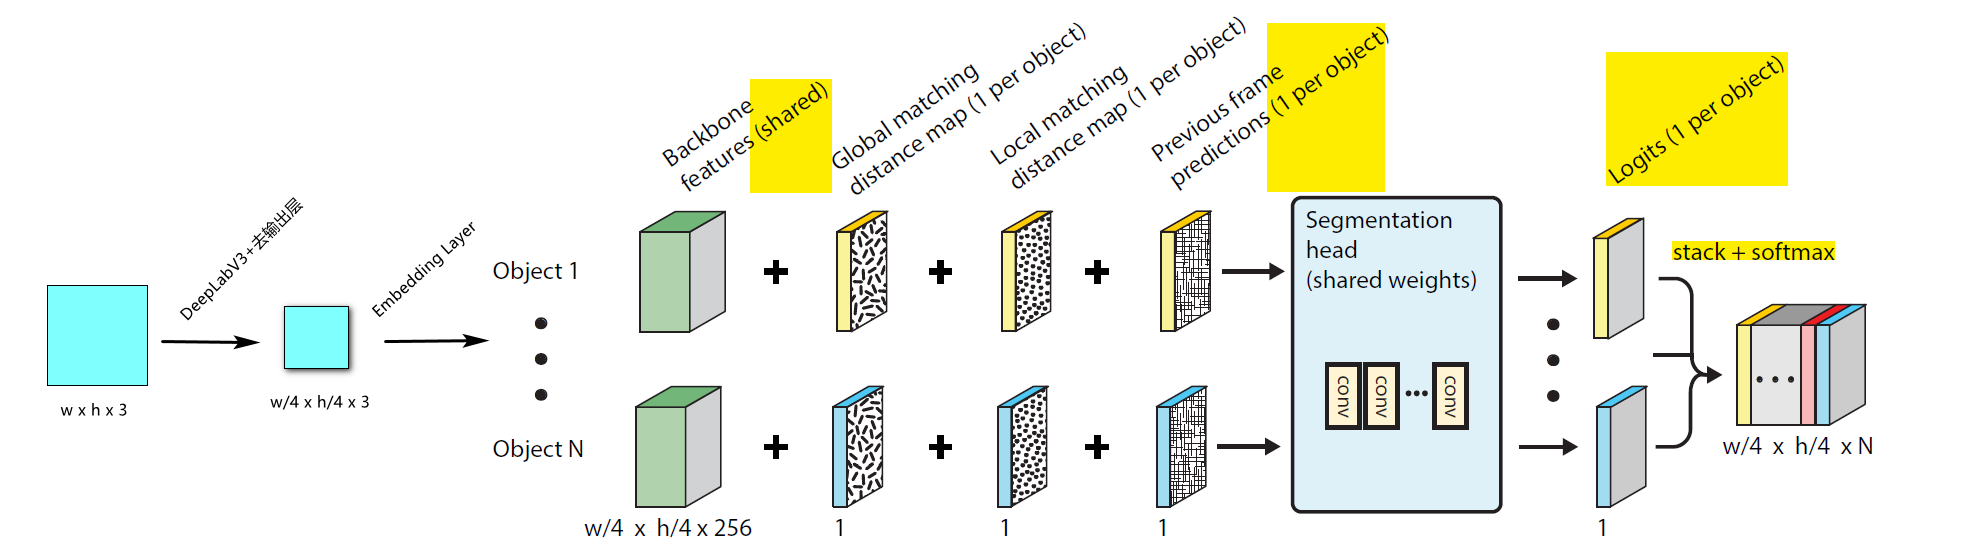
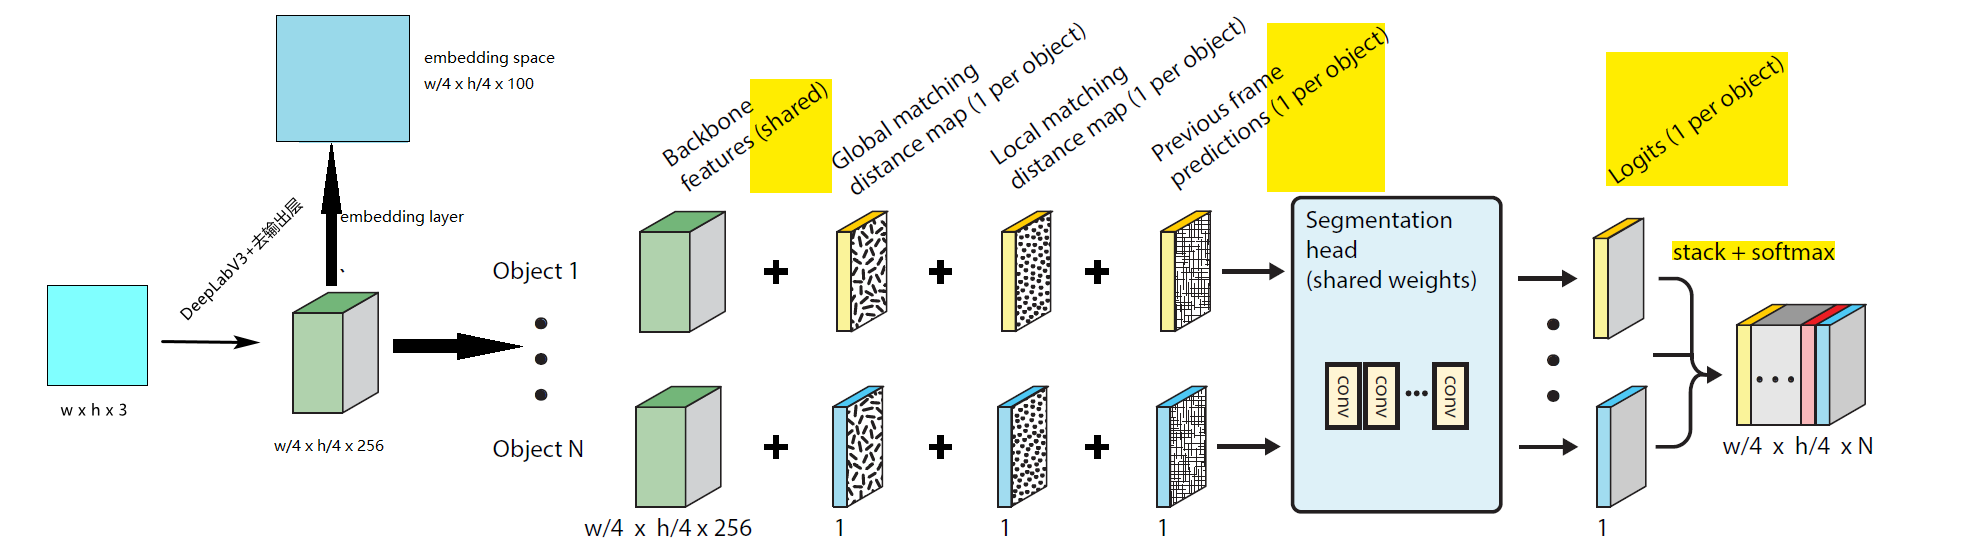
update

Changed region(s): [[0.1234, 0.0, 0.2777, 0.7658], [0.1234, 0.7964, 0.1851, 0.827]]

diff --git a/_posts/.ipynb_checkpoints/2019-9-10-Paper-Reading-Semantic-Instance-Segmentation-via-Deep-Metric-Learning-checkpoint.md b/_posts/.ipynb_checkpoints/2019-9-10-Paper-Reading-Semantic-Instance-Segmentation-via-Deep-Metric-Learning-checkpoint.md
@@ -1,0 +1,82 @@
+---
+title: 【论文阅读笔记】基于深度度量学习的语义实例分割
+tags: [CV, Semantic Instance Segmentation, Deep Metric Learning]
+categories: [CV, Semantic Instance Segmentation]
+---
+[基于深度度量学习的语义实例分割（Semantic Instance Segmentation via Deep Metric Learning）](https://arxiv.org/abs/1703.10277)
+
+论文提出一种语义实例分割的新方法，简单概括为先计算两个像素点属于同一个对象的可能性，然后将相似的像素分组到一起。相似度的度量方式取决于深度完全卷积的嵌入模型，而分组的方法是取决于用深度完全卷积的评分模型选取与一组“种子点”（`seed point`）足够相似的所有点。[论文下载地址](https://arxiv.org/pdf/1703.10277.pdf)
+
+<!--more-->
+
+## 论文前言（Introduction） ##
+论文一开始介绍了语义实例分割
+
+- [与物体检测（`Object Detection`）的区别](#语义实例分割与物体检测的区别)
+- [与语义分割（`Semantic Segmentation`）的区别](#语义实例分割与语义分割的区别)
+- [在领域中的实际应用（`Practical Applications in Domains`）](#语义实例分割在领域中的实际应用)
+- [一种常用的处理方法（`A Common Approach`）](#语义实例分割常用的处理方法)
+- [一个近期的新的处理方法（`“Box-Free” Methods`）](#语义实例分割近期的新的处理方法)
+- [论文中提出的新方法](#论文中提出的语义实例分割新方法)
+- [模型图](#模型图)
+
+### 语义实例分割与物体检测的区别 ###
+相对于物体检测，结果不是一个边界框，而是实例对象的形状，
+
+### 语义实例分割与语义分割的区别 ###
+相对于语义分割，语义实例分割不仅仅只是将每一个像素分类到一个标签，而且区分同一类别中的单个实体（即区分person-1、person-2……），因而标签空间的大小没有限制（即标签可能包含两个对象，也可能是三个，甚至是无限多个）。
+
+### 语义实例分割在领域中的实际应用 ###
+自动驾驶汽车、机器人技术、图片编辑等等。
+
+### 语义实例分割常用的处理方法 ###
+首先，用某种机制去预测对象的边界，例如用一个类级别（`class-level`）的对象检测器或者使用一个类不可知边界建议方法（`class agnostic box proposal method`）比如边界盒（`EdgeBoxes`）等等。
+
+然后，对每一个建议的边界（`proposed box`）中进行分类和分割。
+
+这种方法的缺点在于如果在建议的边界中不止存在一个实体，则这种方法可能会失败。
+
+论文中还说，直观的来看，首先检测代表每个物体的遮罩（`mark`），然后再根据需要从中派生一个边界框感觉更“自然”（`“natural”`）。
+
+需要**注意**的是边界框对于一些具体类别（例如车、行人）的物体形状是很好的近似，但是在其他一些类别中表现就不那么好了，比如椅子之类的“金属线”物体（` “wirey” objects`）、铰接在一起的人（`articulated people`）以及其他非轴对称的物体(`non-axis-aligned objects`)。
+
+### 语义实例分割近期的新的处理方法 ###
+
+自由边界的方法（`“Box-Free” Methods`）：这种方法试图直接预测每个物体的遮罩，最常用的方法是修改Faster RCNN框架，以便在每一个点，预测一个中心性分数（`“centeredness” score`,当前点作为一个实体对象的中心的可能性），二元对象遮罩（`binary object mask`）和类标签（`class label`），而不是通常的对象分数（`“objectness” score`），边界框和类标签，但是，这种方法要求整个对象实例都符合进行预测的单元的接收域（`receptive field`）,对于细长结构（`elongated
+structures`）来说，这是很困难的，它们可能跨越图片中的很多像素，另外，对于一些对象种类，中心的概念没有一个很好的定义。
+
+### 论文中提出的语义实例分割新方法 ###
+**核心思想**是计算两个像素点属于同一个实例对象的可能性，随后用这些可能性来将相似的点分组。
+相似于大多数无监督图像分割方法（`unsupervised image segmentation`），都将像素点分组到一起形成部分（`segments`）或者“超级像素”（`“super-pixels”`），然而，与无监督案例不同的是，论文中的方法对“正确的”部分有明确定义的概念，叫做整个对象的空间范围，这避免了像是否将一个对象的部分做一个独立的部分（例如，人的上衣和裤子）的这种歧义，而这是无监督方法的评估的困扰。
+
+论文中的方法建议使用深度嵌入模型来学习相似度度量，这种方法与其他方法也有相似之处，比如FaceNet，它学习两个边界框属于同一个人的可能性，除了学习预测像素的相似性，同时考虑到它们本地的上下文。
+
+文中提到文中的方法与无监督图像分割的另一个不同是没有使用基于谱或者图的划分方法，原因是，计算所有像素点成对的相似度太昂贵的，相反，使用了计算与一组K个种子点（`“seed points”`）的距离在嵌入空间中，这可以使用张量成发来实现。
+
+为了找到这些种子点（`seed points`）,学习一个单独的模型来预测一个像素点作为一个好的种子点的可能性，把这个叫做每个像素点的“种子度”分数（`“seediness” score `），这类似于之前提到的方法中的“中心度”分数（`“centeredness” score`），只是不需要确定对象的中心，而是使用种子度分数的方法，度量一个像素相对于其他像素点“典型性”（`“typicality”`）在这个实体中。论文中**表明**，在实践中，只需要取前100个种子，就可以很好地覆盖一张图像中几乎所有的对象。
+
+前言部分最后说了一下新方法的准确性，总结来说就是尽管在这个特定的基准（`Pascal VOC 2012 instance segmentation
+benchmark`）下不是最先进的，但是依然有竞争力。
+
+### 模型图 ###
+![图片一，基于深度度量学习的语义实例分割](/assets/images/20190910/image1-Semantic-Instance-Segmentation-via-Deep-Metric-Learning.png)
+
+图片中展示了上面所说的过程：给定一张图片，先通过卷积层，通过卷积层之后，通过一个网络预测得到嵌入向量（`embedding vector`），同时通过另一个网络预测得到遮罩分类和种子度分数（`Mask classification and seediness scores`），随后通过这个两个结果又可以等到像素种子样本（`Pixel Seed
+Sampling`）,最后通过分组，得到最终的实体分割的结果（`Output instance segments`）,包括了遮罩、分类的分数。
+
+## 相关工作 ##
+论文的第二部分`Related work`，主要大概概述了一些语义实体分割的方法以及方法的优劣，最后到论文要提出的新方法，这里跳过，主要看第三部分，方法的详细说明。
+
+## 论文中提出的方法 ##
+
+### 概述 ###
+
+这里用自己的话总结一下，论文中提出的方法，首先
+1. 图片（维度[h,w,3]）通过一个特征提取器（基于DeepLab V2模型，修改掉最后分类的层（layer），让输出的维度为[h/8,w/8,2048]），
+2. 第一步的结果再通过嵌入模型（`embedding model`）（输出维度为[h,w,d]，这里的d为每一个像素点嵌入向量的维度，论文中设置d=64）。
+3. 这一步与第2步同时进行，第一步的结果再通过分类模型，输出为[h,w,C+1]，C为分类的数目，对应每一个点分类的分数。
+4. 最后结合第2步，第3步，输出实体分割结果，取两者的重叠率，当重叠率最高的类别超过一个阈值（{0.25，0.5，0.75，0.9}）的时候，则该分类有效，作为遮罩的类别。
+
+到这里基本实现了模型的正向传播，训练方法与预处理在这里先不详细总结了，对应上面四个步骤进行训练，第一步中，使用COCO预训练（DeepLab V2模型修改最后一层），第二步第三步中，使用类似交叉熵损失函数来训练，在选择种子点时，使用均方误差作为损失函数来训练，选择最合适的种子点。
+
+以上是部分论文的直译，以及一些个人的理解，可能有些不准确的地方，之后有机会使用到论文中的方法时，再深入吧，这里算是了解一种新方法。

diff --git a/_posts/.ipynb_checkpoints/2019-9-16-Paper-Reading-Semantic-Instance-Segmentation-with-a-Discriminative-Loss-Function-checkpoint.md b/_posts/.ipynb_checkpoints/2019-9-16-Paper-Reading-Semantic-Instance-Segmentation-with-a-Discriminative-Loss-Function-checkpoint.md
@@ -1,0 +1,54 @@
+---
+title: 【论文阅读笔记】带有歧视的损失函数的语义实体分割
+tags: [CV, Semantic Instance Segmentation, Discriminative Loss Function]
+mathjax: true
+mathjax_autoNumber: true
+---
+
+[带有歧视的损失函数的语义实体分割（Semantic Instance Segmentation with a Discriminative Loss Function）](论文地址)
+
+论文提出一种将特征空间的点分簇的损失函数，损失函数主要分为三项构成，分别为方差项（variance term），距离项（distance term），正则项（regulariztion trem），其中方差项计算的是簇内的距离，距离项计算的是簇与簇的距离，分别控制同簇点与簇中心之间的距离在`δv`之内，不同簇与簇的中心距离大于`δd`，[论文下载地址](https://arxiv.org/pdf/1703.10277.pdf)
+
+<!--more-->
+
+![图片：损失函数原理图](/assets/images/20190916/figure2.png)
+
+论文主要关注于损失函数，主要关注于训练出好的特征空间（如`Embedding Space`）。
+
+## 带有歧视的损失函数 ##
+
+### 定义 ###
+
+$C$是真实值中的簇的总数，$N_c$簇$c$中的元素数量，$x_i$是一个元素对应的嵌入向量，$\mu_c$是&c&簇中嵌入向量的平均值（簇的中心），$\vert\vert\cdot\vert\vert$是L1距离或者L2距离，$[x]_+$是max(0,x)定义的铰链函数，$\delta_v$和$\delta_d$代表方差和距离损失的间隙。
+
+### 方差项 ###
+
+$$L_{var} = \frac{1}{C}\sum_{c=1}^C\frac{1}{N_c}\sum_{i=1}^{N_c}[||{\mu_i-x_i}||-\delta_v]_+^2$$
+
+### 距离项 ###
+
+$$L_{dist}=\frac{1}{C(C-1)}{\sum_{c_A=1}^{C}\sum_{c_B=1}^{C}}_{c_A \neq c_B}[2\delta_d-||{\mu_{c_A}-\mu_{c_B}}||]_+^2$$
+
+### 正则项 ###
+
+$$L_{reg}=\frac{1}{C}\sum_{c=1}^{C}||\mu_c||$$
+
+### 完整损失函数 ###
+$$L=\alpha\cdot{L_{var}}+\beta\cdot{L_{dist}}+\gamma\cdot{L_{reg}}$$
+
+在实验时，作者设置$\alpha=\beta=1$，$\gamma=0.001$。   
+
+## 其他内容 ##
+
+论文还说到了后处理（post-processing），包括增强鲁棒性（increasing robustness）等等， 还有其他实验的设置和数据集，还有优缺点等等，这里最后说一下这个方法的优缺点（pros and cons）。
+
+### 优缺点 ###
+论文中方法，在有重叠部分的情况下依然有好的效果，比如在合成的零散的线条中，在数据集图片中有比较相似的实例时，效果也比较好，但是，在随机多种多样的数据集中，效果不太好，在只有一个的实例对象的图片中训练效果不是太好。
+
+### MathJax数学公式 ###
+[MathJax语法](https://www.cnblogs.com/Bone-ACE/p/4558870.html)
+
+[MathJax语法](https://blog.csdn.net/luyaxige/article/details/80193409)
+
+[在线MathJax公式书写](http://cxcgzx.cn:88/test/mathtest.php)
+

diff --git a/_posts/.ipynb_checkpoints/2019-9-18-Paper-Reading-Semantic-Instance-Segmentation-via-Deep-Metric-Learning-checkpoint.md b/_posts/.ipynb_checkpoints/2019-9-18-Paper-Reading-Semantic-Instance-Segmentation-via-Deep-Metric-Learning-checkpoint.md
@@ -42,7 +42,7 @@ $$m(p,\tau)=\{ q:\sigma(p,q) \geq \tau \}$$
 
 ### 选取种子点机制
 
-当p点与种子点q的相似度大于一个阈值时，则将这个点p设置为与点q同类，反之属于背景，由此可知每一个种子点都会产生一个二值遮罩，那么我们如何选种子点呢？首先选择每个类中一个“种子度”最高的点，这个点是在阈值$\tau\$下最大可能性属于c类中。
+当p点与种子点q的相似度大于一个阈值时，则将这个点p设置为与点q同类，反之属于背景，由此可知每一个种子点都会产生一个二值遮罩，那么我们如何选种子点呢？首先选择每个类中一个“种子度”最高的点，这个点是在各个阈值$\tau\$（各个分类模型下）下取属于某个类别的最大可能性中的最大值对应的点，结合一个“正则项”选点。
 
 选择第t个种子点
 
@@ -54,7 +54,7 @@ $$ S_p = max_{\tau \in \mit T}\ max_{c=1}^C \mit C_{pc}^{\tau} $$
 
 $$ D(p,p_{1:t-1}) = min_{q \in p_{1:t-1}} ||e_p - e_q ||_2^2 $$
 
-$S_p$表示p点的种子度（seediness），$D(p,p_{1:t-1})$表示p点与已选择的点中的最小距离，在论文中提到处理不同大小的对象会使用不同大小的阈值，而再实验中作者使用阈值的范围为$$\mit T={\{ 0.25, 0.5, 0.75, 0.9 \}}$$，即$$\tau \in {\{ 0.25, 0.5, 0.75, 0.9\}}$$，$C_{pc}^{\tau}$是在阈值为$\tau$下,点p属于c类的可能性。$arg \ max$表示后面的式子取最大值时的变量值，这里是取最大值时对应的点。
+$S_p$表示p点的种子度（seediness），$D(p,p_{1:t-1})$表示p点与已选择的点中的最小距离，在论文中提到处理不同大小的对象分别对每一个阈值$\tau$训练一个分类模型（原文：To handle objects of different sizes, we train a different classification model for each value of $\tau$;），在实验中作者使用阈值的范围为$$\mit T={\{ 0.25, 0.5, 0.75, 0.9 \}}$$，即$\tau \in {\{ 0.25, 0.5, 0.75, 0.9\}}$对应每个阈值生成一个模型，$S_p$为在每一个阈值$\tau $的分类模型下，取属于c类的可能性的最大值，随后,再取对应各个阈值下的最大可能性的最大值，$C_{pc}^{\tau}$是在阈值为$\tau$产生的模型下,点p属于c类的可能性。$arg \ max$表示后面的式子取最大值时的变量值，这里是取最大值时对应的点。
 
 $\alpha \ log(D(p,p_{1:t-1}))$ 可以简单理解为正则项，作用是让新选的p点与已经选择了的t-1个种子点的距离大一些，这里体现为惩罚新选p点与已经选择的t-1个点的最小距离。
 

diff --git a/_posts/2019-9-18-Paper-Reading-Semantic-Instance-Segmentation-via-Deep-Metric-Learning.md b/_posts/2019-9-18-Paper-Reading-Semantic-Instance-Segmentation-via-Deep-Metric-Learning.md
@@ -42,7 +42,7 @@ $$m(p,\tau)=\{ q:\sigma(p,q) \geq \tau \}$$
 
 ### 选取种子点机制
 
-当p点与种子点q的相似度大于一个阈值时，则将这个点p设置为与点q同类，反之属于背景，由此可知每一个种子点都会产生一个二值遮罩，那么我们如何选种子点呢？首先选择每个类中一个“种子度”最高的点，这个点是在阈值$\tau\$下最大可能性属于c类中。
+当p点与种子点q的相似度大于一个阈值时，则将这个点p设置为与点q同类，反之属于背景，由此可知每一个种子点都会产生一个二值遮罩，那么我们如何选种子点呢？首先选择每个类中一个“种子度”最高的点，这个点是在各个阈值$\tau\$（各个分类模型下）下取属于某个类别的最大可能性中的最大值对应的点，结合一个“正则项”选点。
 
 选择第t个种子点
 
@@ -54,7 +54,7 @@ $$ S_p = max_{\tau \in \mit T}\ max_{c=1}^C \mit C_{pc}^{\tau} $$
 
 $$ D(p,p_{1:t-1}) = min_{q \in p_{1:t-1}} ||e_p - e_q ||_2^2 $$
 
-$S_p$表示p点的种子度（seediness），$D(p,p_{1:t-1})$表示p点与已选择的点中的最小距离，在论文中提到处理不同大小的对象会使用不同大小的阈值，而再实验中作者使用阈值的范围为$$\mit T={\{ 0.25, 0.5, 0.75, 0.9 \}}$$，即$$\tau \in {\{ 0.25, 0.5, 0.75, 0.9\}}$$，$C_{pc}^{\tau}$是在阈值为$\tau$下,点p属于c类的可能性。$arg \ max$表示后面的式子取最大值时的变量值，这里是取最大值时对应的点。
+$S_p$表示p点的种子度（seediness），$D(p,p_{1:t-1})$表示p点与已选择的点中的最小距离，在论文中提到处理不同大小的对象分别对每一个阈值$\tau$训练一个分类模型（原文：To handle objects of different sizes, we train a different classification model for each value of $\tau$;），在实验中作者使用阈值的范围为$$\mit T={\{ 0.25, 0.5, 0.75, 0.9 \}}$$，即$\tau \in {\{ 0.25, 0.5, 0.75, 0.9\}}$对应每个阈值生成一个模型，$S_p$为在每一个阈值$\tau $的分类模型下，取属于c类的可能性的最大值，随后,再取对应各个阈值下的最大可能性的最大值，$C_{pc}^{\tau}$是在阈值为$\tau$产生的模型下,点p属于c类的可能性。$arg \ max$表示后面的式子取最大值时的变量值，这里是取最大值时对应的点。
 
 $\alpha \ log(D(p,p_{1:t-1}))$ 可以简单理解为正则项，作用是让新选的p点与已经选择了的t-1个种子点的距离大一些，这里体现为惩罚新选p点与已经选择的t-1个点的最小距离。
 
